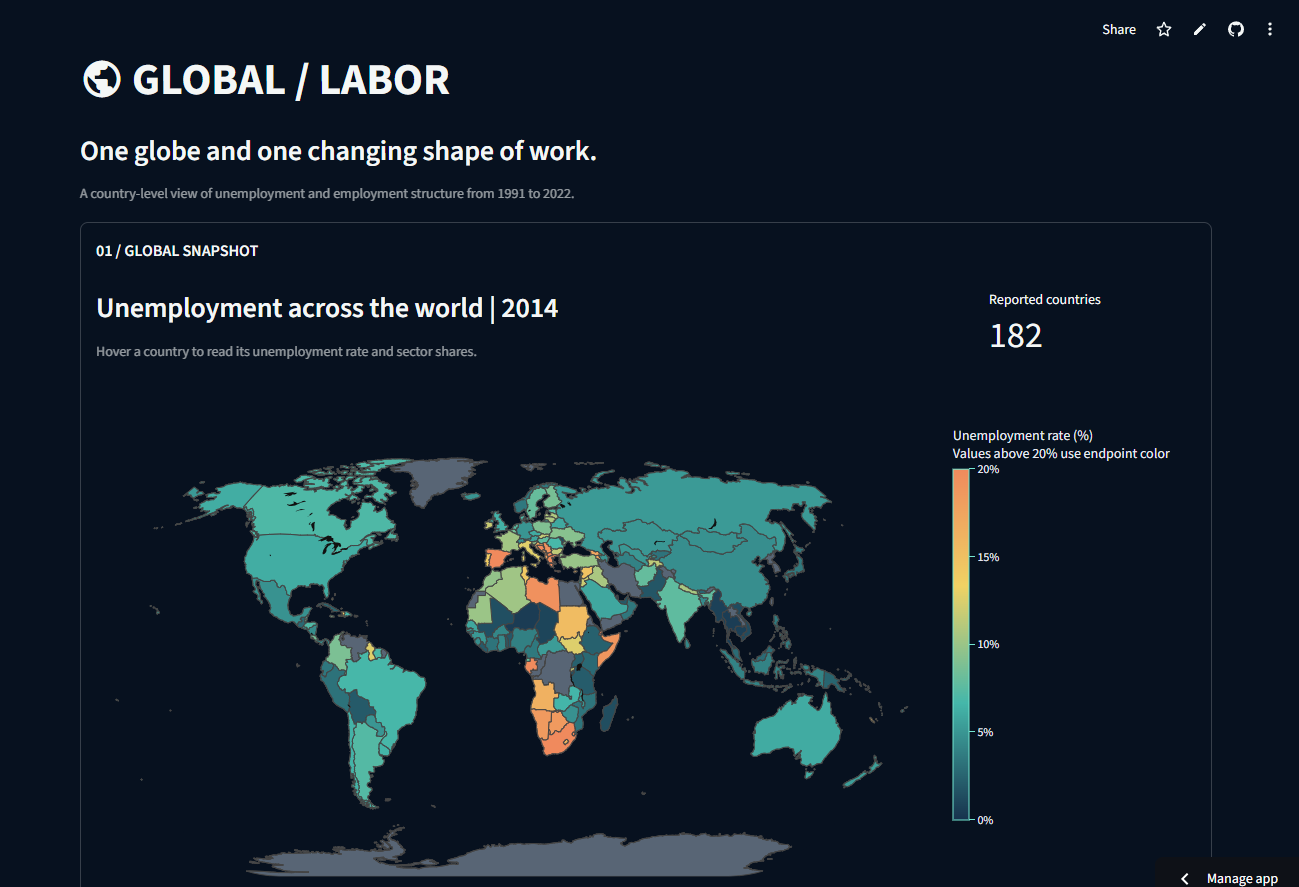
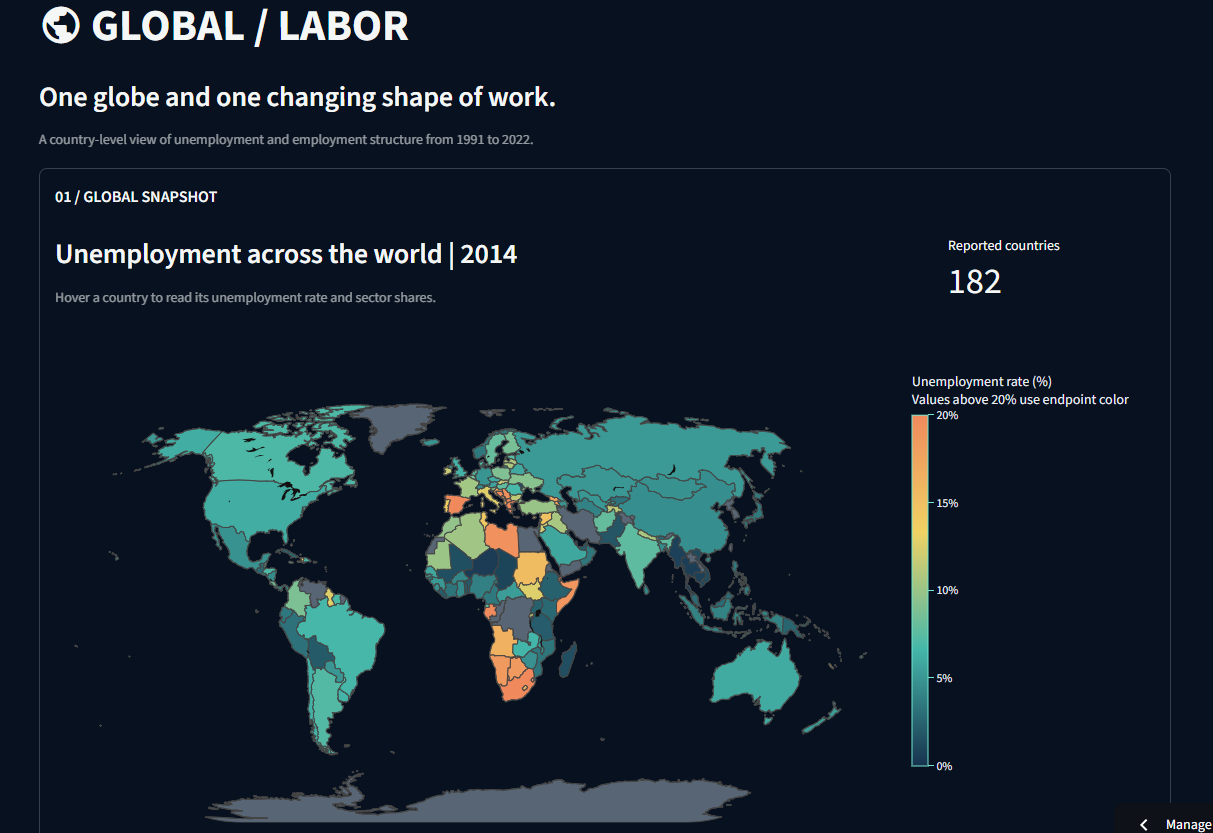
Update cropped global labor snapshot

diff --git a/index.html b/index.html
@@ -83,7 +83,7 @@
         <div class="project-list">
           <article class="project-card featured">
             <div class="project-image project-image-contained">
-              <img src="./images/global-labor.png" alt="Global Labor Explorer dashboard showing a world map colored by unemployment rate and sector composition" width="1299" height="887" loading="lazy">
+              <img src="./images/global-labor.png" alt="Global Labor Explorer dashboard showing a world map colored by unemployment rate and sector composition" width="1213" height="833" loading="lazy">
             </div>
             <div class="project-content">
               <p class="project-number">01 · DATA EXPLORATION</p>
